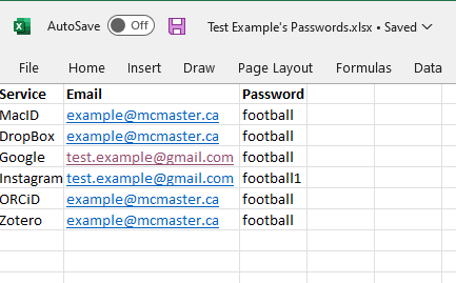
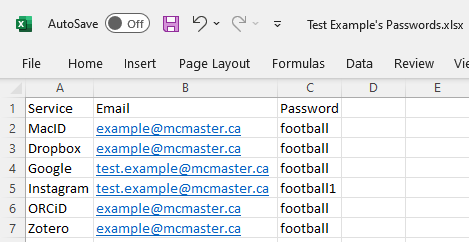
formatting and images

Changed region(s): [[0.0, 0.2025, 1.0, 0.9835], [0.0, 0.0, 1.0, 0.1446]]

diff --git a/topics/3-security-and-storage.md b/topics/3-security-and-storage.md
@@ -63,9 +63,10 @@ You can access this tool at <https://rdm.mcmaster.ca/finder>.
 ## How Should I Protect my Data?
 
 ### Encrypt Sensitive Data
-<img src="../assets/img/lessons/sensitive-data.png" alt="an image of a focus group where parents and babies are learning about nutrition with a researcher" width="50%" align=right style="display: block; margin: 10px; border-radius: 30px">
-
-  <ins>Image credit: [Kevin Patrick Robbins, “Moms to Babies Research, Focus Group,” June 19, 2018, McMaster Asset Bank](https://brand-resources.mcmaster.ca/asset-bank/action/viewAsset?id=7293&index=21&total=68&view=viewSearchItem)</ins> 
+<div style="width:45%; float: right; margin-left: 10px" markdown="1">
+  <img src="../assets/img/lessons/sensitive-data.png" style="border-radius: 30px" alt="" width="100%">  
+  <ins>Image credit: [Kevin Patrick Robbins, “Moms to Babies Research, Focus Group,” June 19, 2018, McMaster Asset Bank](https://brand-resources.mcmaster.ca/asset-bank/action/viewAsset?id=7293&index=21&total=68&view=viewSearchItem)</ins>
+</div>
   
 Sensitive data is any data that could cause harm if released openly. This includes personally identifiable information or personal health information. It can also include confidential business information (such as data that might lead to a patent), sensitive ecological information (like nesting sites for endangered species), or Indigenous cultural pracitces. 
 
@@ -109,8 +110,6 @@ Make sure your online information is secure by ensuring your password is:
 > Remembering multiple passwords can be difficult. Use a trusted password manager to keep track of your passwords for you. Some examples are [BitWarden](https://bitwarden.com/) and [1Password](https://1password.com/).
 
 ### Common Password Mistakes
-<img src="../assets/img/lessons/bad-passwords.png" alt="an image of password bad practices: stored in a spreadsheet, and all of them are football" width="50%" align=right style="display: block">
-
 Make sure your passwords aren't:
 
 Written Down
@@ -121,6 +120,8 @@ Too Simple
 
 Identical
 : Using the same password for multiple websites is like having one key for multiple locks; if it's stolen, the thief can open them all.
+
+<img src="../assets/img/lessons/bad-passwords.png" alt="an image of password bad practices: stored in a spreadsheet, and all of them are football" width="70%"  style="margin: auto; display: block">
 
 For more tips on data privacy, check out our [Data Privacy Best Practices](https://scds.github.io/intro-rdm/privacy.html) workshop.
 

diff --git a/topics/2-organization-and-documentation.md b/topics/2-organization-and-documentation.md
@@ -134,9 +134,9 @@ Data Dictionaries
 Codebooks
 : Like data dictionaries but for suvery or statistical data - includes the survey layout and structure, and codes for questions and answers.
 
+<h3>Example README file</h3>
 <div style="display: grid; align-items: top; row-gap: 2px; column-gap: 10px">
   <div style="grid-row-start: 1; grid-column-start: 1">
-    <h3>Example README file</h3>
     <p>You can find an portion of an example README documentation file on the right side.</p>
     <p>It starts off with some of the important project information, such as the project's name, the date that the project took place in, a small description about the project, funder information, and finally the researcher's contact information.</p>
     <p>It then mentions the file organization system, followed by any naming coventions that the files follow.</p>
